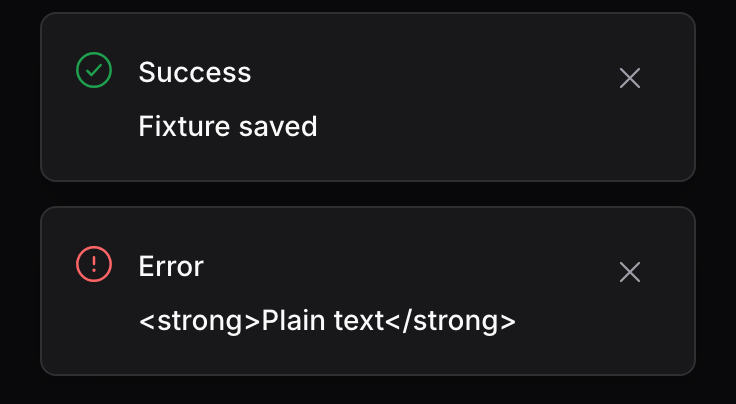
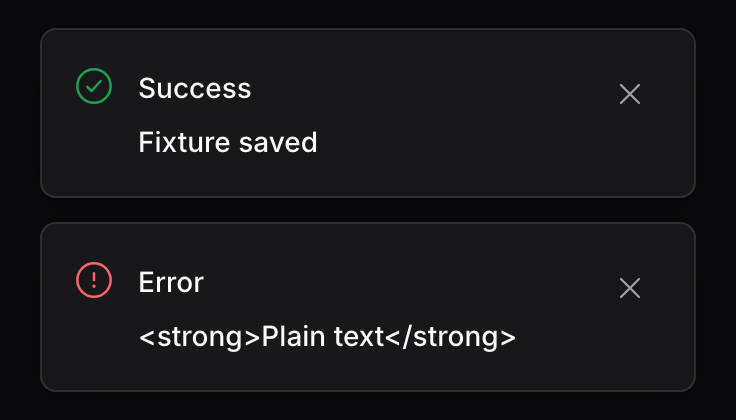
docs: recapture the UI kit and show real lint and Knip output in the figures
The ui-kit captures no longer clip text: the menu comes from the right
edge of a wide viewport, the dialog and the toasts sit below the fixture
content in a tall one, and the native checkbox is out of the form clip.
The image heights match the clips. The layers figure shows a real
architecture/layer-imports message, and the new dead-code figure shows
the Knip report, both taken from a temporary copy of the app. The
development guide records the capture rules and the figure count.

diff --git a/docs/assets/readme/figures.html b/docs/assets/readme/figures.html
@@ -1948,17 +1948,26 @@ Disallow: /_server</pre>
         <p class="eyebrow">UI kit of the boilerplate</p>
         <h2 class="title">Six components, captured from the running app.</h2>
         <p class="lede">
-          The /ui-kit E2E fixture route at 1:1 scale, 368 px wide.
+          Clips of the /ui-kit E2E fixture route at 1:1 scale, 368 px wide.
         </p>
         <div class="cap-grid">
           <div class="cap-col">
             <div class="win cap-win">
               <div class="win-bar"><span>DropdownMenu</span></div>
-              <img data-capture="ui-kit-menu" width="368" height="180" alt="" />
+              <img data-capture="ui-kit-menu" width="368" height="169" alt="" />
             </div>
             <div class="win cap-win">
-              <div class="win-bar"><span>Input · Textarea · Button</span></div>
-              <img data-capture="ui-kit-form" width="368" height="414" alt="" />
+              <div class="win-bar"><span>Input</span></div>
+              <img
+                data-capture="ui-kit-input"
+                width="368"
+                height="100"
+                alt=""
+              />
+            </div>
+            <div class="win cap-win">
+              <div class="win-bar"><span>Textarea · Button</span></div>
+              <img data-capture="ui-kit-form" width="368" height="240" alt="" />
             </div>
           </div>
           <div class="cap-col">
@@ -1967,7 +1976,7 @@ Disallow: /_server</pre>
               <img
                 data-capture="ui-kit-dialog"
                 width="368"
-                height="301"
+                height="278"
                 alt=""
               />
             </div>
@@ -1976,7 +1985,7 @@ Disallow: /_server</pre>
               <img
                 data-capture="ui-kit-toast"
                 width="368"
-                height="202"
+                height="210"
                 alt=""
               />
             </div>
@@ -2334,16 +2343,22 @@ Disallow: /_server</pre>
             >
           </div>
         </div>
-        <div class="rule-msg">
-          <b>Lint error when an import points up</b>
+        <div class="rule-msg term">
+          <b>vp lint, after an atom imports a molecule</b>
           <code class="mono"
-            >Layer {{from}} must not depend on {{to}} ({{target}}). See the
-            layer rules in docs/architecture.md.</code
+            ><span class="dim"
+              >src/components/atoms/PageBadge/index.tsx:3:1:</span
+            >
+            <span class="err">error</span>
+            <span class="rule">architecture(layer-imports):</span> Layer atoms
+            must not depend on molecules
+            (src/components/molecules/PageHero/index.tsx). See the layer rules
+            in docs/architecture.md.</code
           >
         </div>
         <p class="caption">
-          Production code also cannot import tests or tooling/. Message text
-          from the rule source.
+          Real output on a copy of apps/boilerplate. Production code also cannot
+          import tests or tooling/.
         </p>
       </div>
     </section>
@@ -2455,6 +2470,42 @@ Disallow: /_server</pre>
         </div>
         <p class="caption">
           Outside src/theme/, literal colors are errors. Classes use snake_case.
+        </p>
+      </div>
+    </section>
+
+    <section class="figure" id="dead-code">
+      <div class="pad">
+        <div class="feature-head">
+          <div>
+            <p class="eyebrow">Knip, packaged</p>
+            <h2 class="title">Dead code is reported before the push.</h2>
+          </div>
+          <svg class="feature-mark" viewBox="0 0 166 155.3" aria-hidden="true">
+            <use href="#i-solid" />
+          </svg>
+        </div>
+        <p class="lede">
+          vp run dead-code-project runs Knip with the entries of a Solid app,
+          then again with --strict.
+        </p>
+        <div class="first">
+          <div class="win term term-win">
+            <div class="win-bar">
+              <i></i><i></i><i></i
+              ><span class="mono">knip --config tooling/knip.ts</span>
+            </div>
+            <pre class="code mono"><span class="hl">Unused files</span> (1)
+src/helpers/formatPrice/index.ts
+<span class="hl">Unused dependencies</span> (1)
+date-fns  <span class="dim">package.json:45:6</span>
+<span class="hl">Unused exports</span> (1)
+THEME_COOKIE_NAME  <span class="dim">src/constants/theme.ts:6:14</span></pre>
+          </div>
+        </div>
+        <p class="caption">
+          The first pass, on a copy of apps/boilerplate with an unused file,
+          dependency and export added. It fails, so the task stops there.
         </p>
       </div>
     </section>

diff --git a/docs/development.md b/docs/development.md
@@ -224,12 +224,15 @@ of the original at the copied commit.
 ## README figures
 
 The root, application and package READMEs share the themed `.webp` files in
-`docs/assets/readme/`. Their source is `figures.html`, with twenty-eight
-figures. Twenty-five are drawn in HTML and CSS from repository code, measured
-counts and command output; `app-home`, `app-locales` and `ui-kit` frame real
-captures of the boilerplate app. Open it with `?figure=<id>&theme=<dark|light>`
-to see one section, or without parameters to see them all. The figures reuse the
-existing color tokens, sans-serif type and SolidJS symbol.
+`docs/assets/readme/`. Their source is `figures.html`, with twenty-nine figures.
+Twenty-six are drawn in HTML and CSS from repository code, measured counts and
+command output; `app-home`, `app-locales` and `ui-kit` frame real captures of
+the boilerplate app. The lint message in `layers` and the Knip report in
+`dead-code` are real output, taken from a temporary copy of the app with the
+violation added, so the repository keeps no violation. Open it with
+`?figure=<id>&theme=<dark|light>` to see one section, or without parameters to
+see them all. The figures reuse the existing color tokens, sans-serif type and
+SolidJS symbol.
 
 Package READMEs load the figures from `raw.githubusercontent.com` on `main`.
 Three consequences follow:
@@ -269,11 +272,21 @@ the file opens complete. Take them from the running copy, never from a drawing:
    factor 2 and the theme set by the `app-theme` cookie. Check the class and
    `lang` of `<html>` before each capture.
 4. Capture at the CSS width the figure shows: 750 px for `app-home` and
-   `app-locales`, 368 px for the four `ui-kit` states (language menu, form,
-   dialog and toasts). The figure shows them at 1:1, so the app text keeps its
-   own size. Grow each clip until every text it touches is whole.
-5. Save lossless WebP. The figure export fails when a capture does not load or
-   is not shown at 1:1.
+   `app-locales`, 368 px for the five `ui-kit` clips (language menu, input,
+   textarea with buttons, dialog and toasts). The figure shows them at 1:1, so
+   the app text keeps its own size. Grow each clip until every text it touches
+   is whole.
+5. Keep page content out from under overlays. The top bar is fixed over the
+   fixture route, and the menu, the dialog backdrop and the toasts cover the
+   page. Clip the language menu from the right edge of a 1,400 px viewport,
+   where it opens beside the 640 px page column, and capture the dialog and the
+   toasts in a 368 by 2,400 px viewport, where they sit below the fixture
+   content. Check every text node that touches a clip with
+   `document.elementFromPoint`: none may be cut by the edge or covered by
+   another element.
+6. Save lossless WebP. Set the `width` and `height` of each `<img>` to the clip
+   size in CSS pixels. The figure export fails when a capture does not load or
+   is not shown at 1:1 in both directions.
 
 The 14 px rule covers the text drawn in `figures.html`. Inside a capture, record
 the smallest text of the app instead: 12 px in `app-home` and `app-locales`, the
